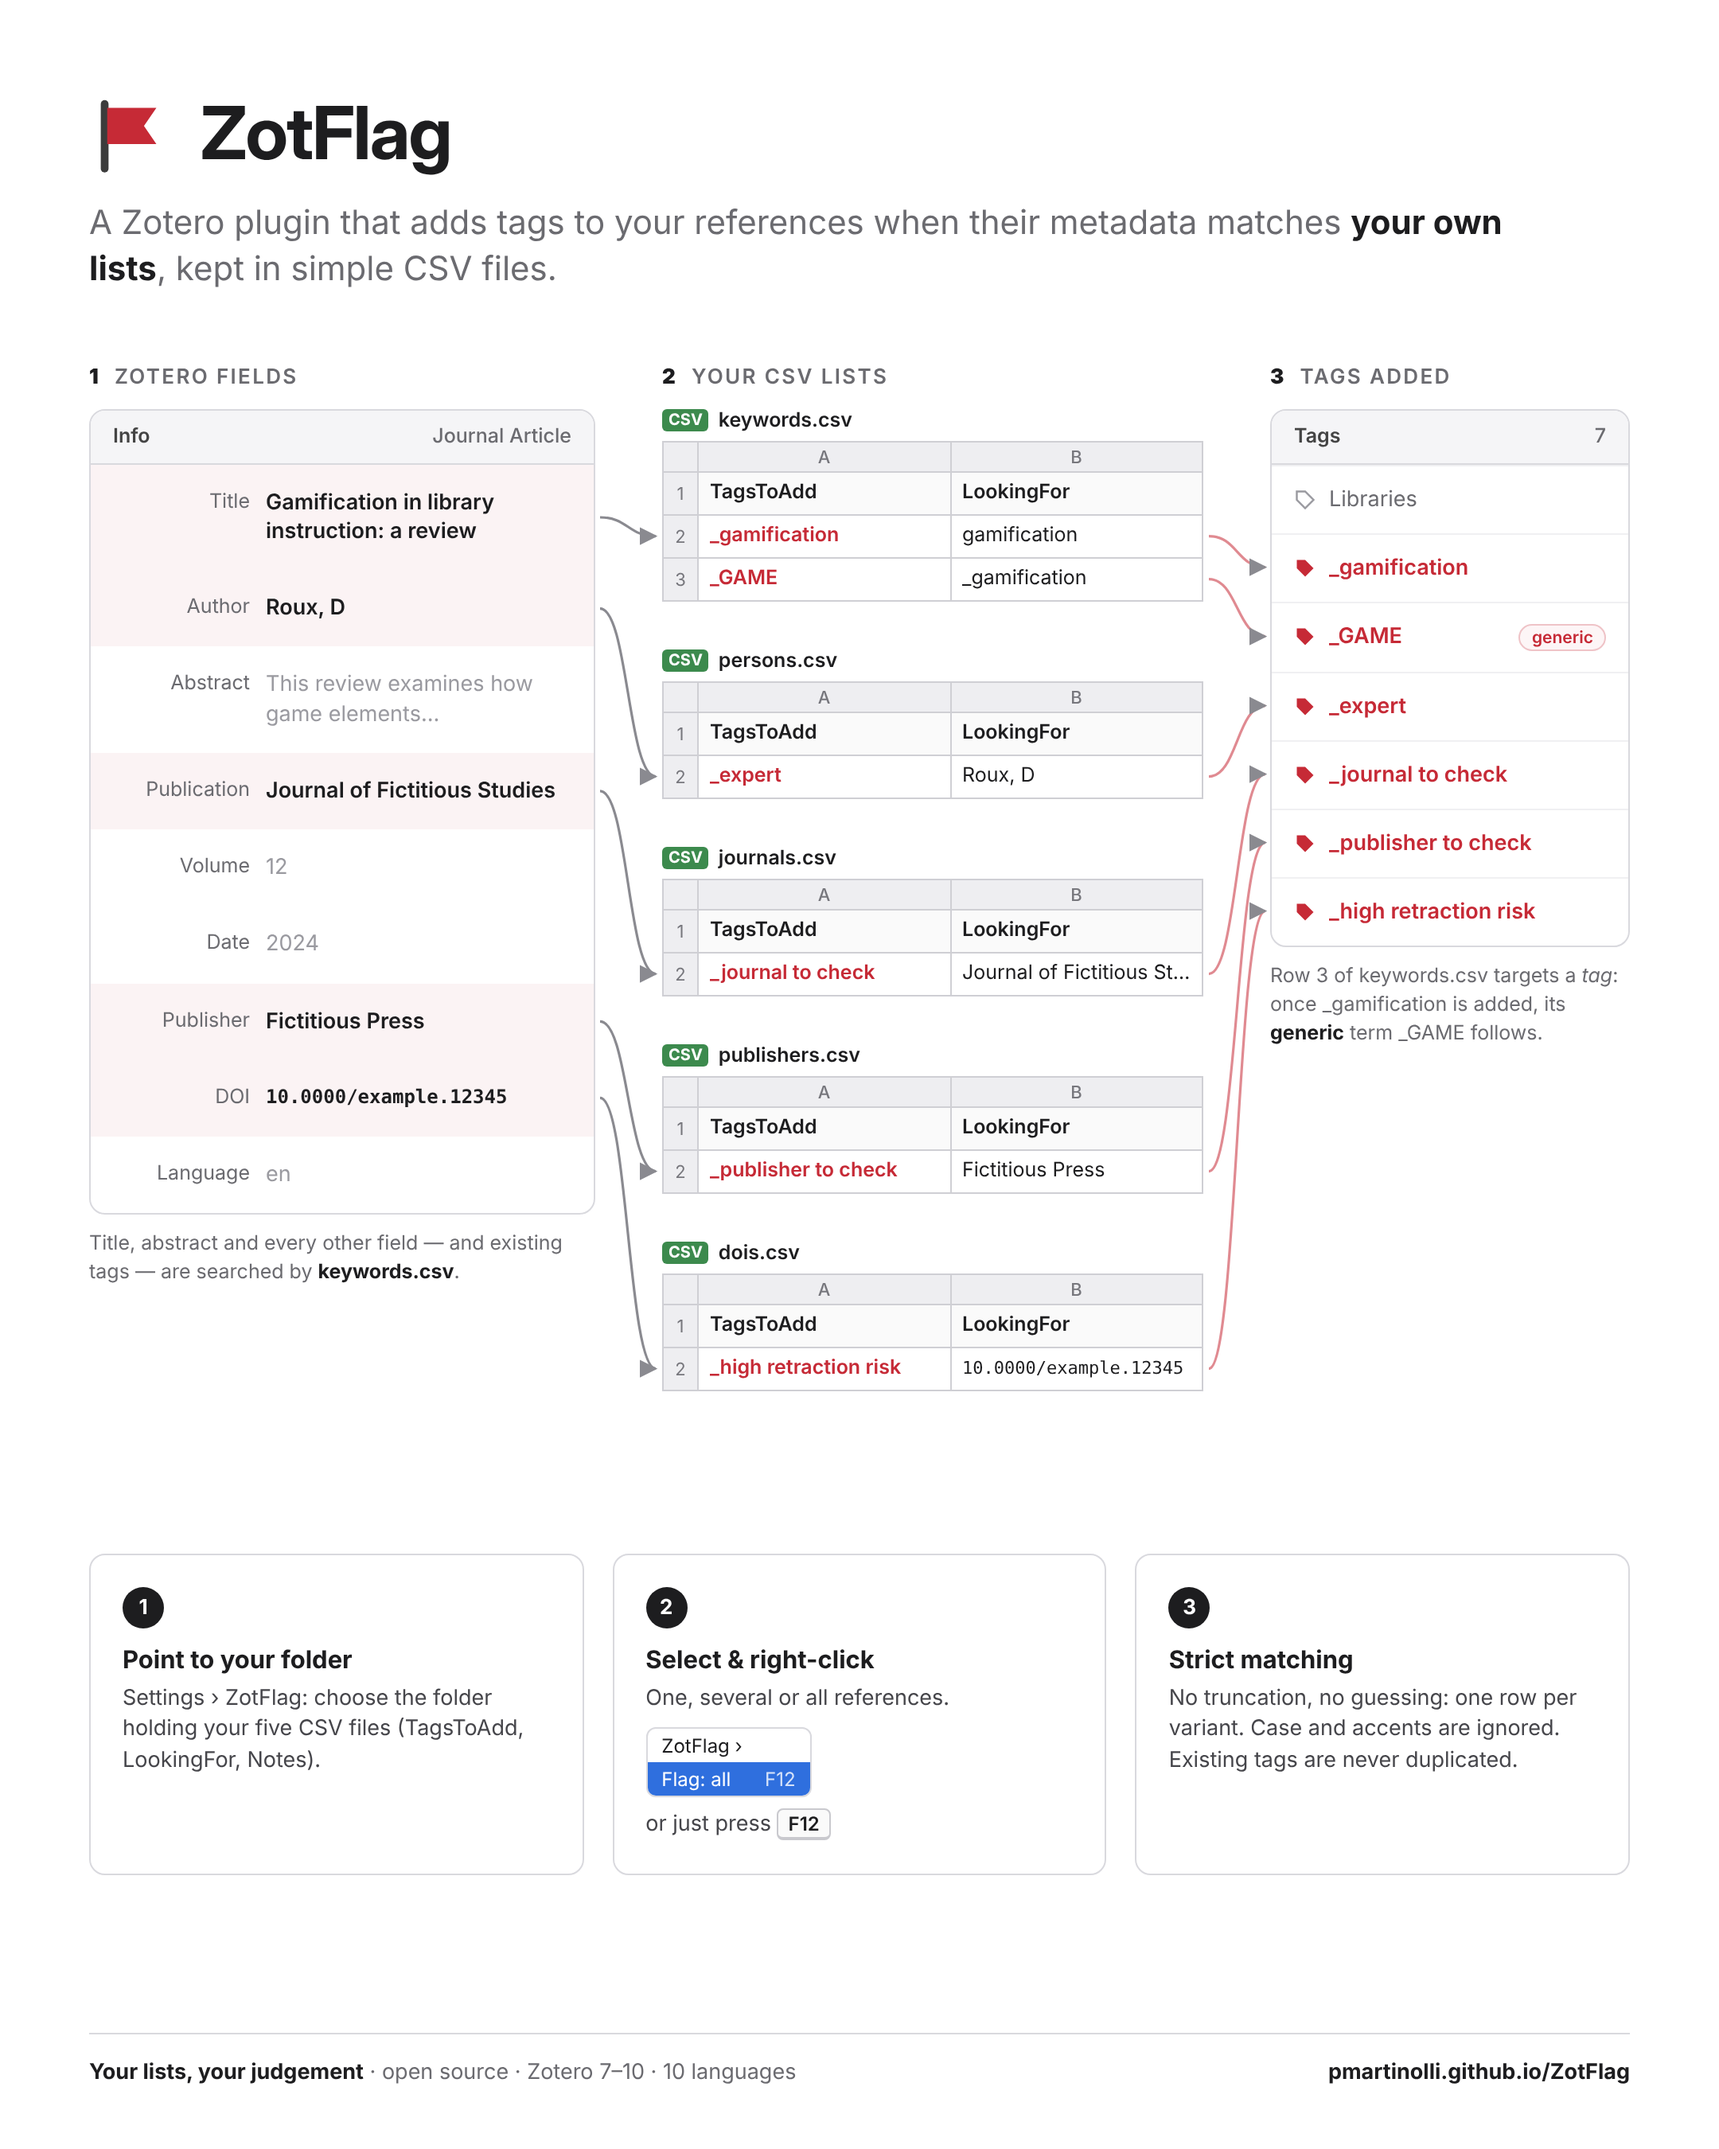
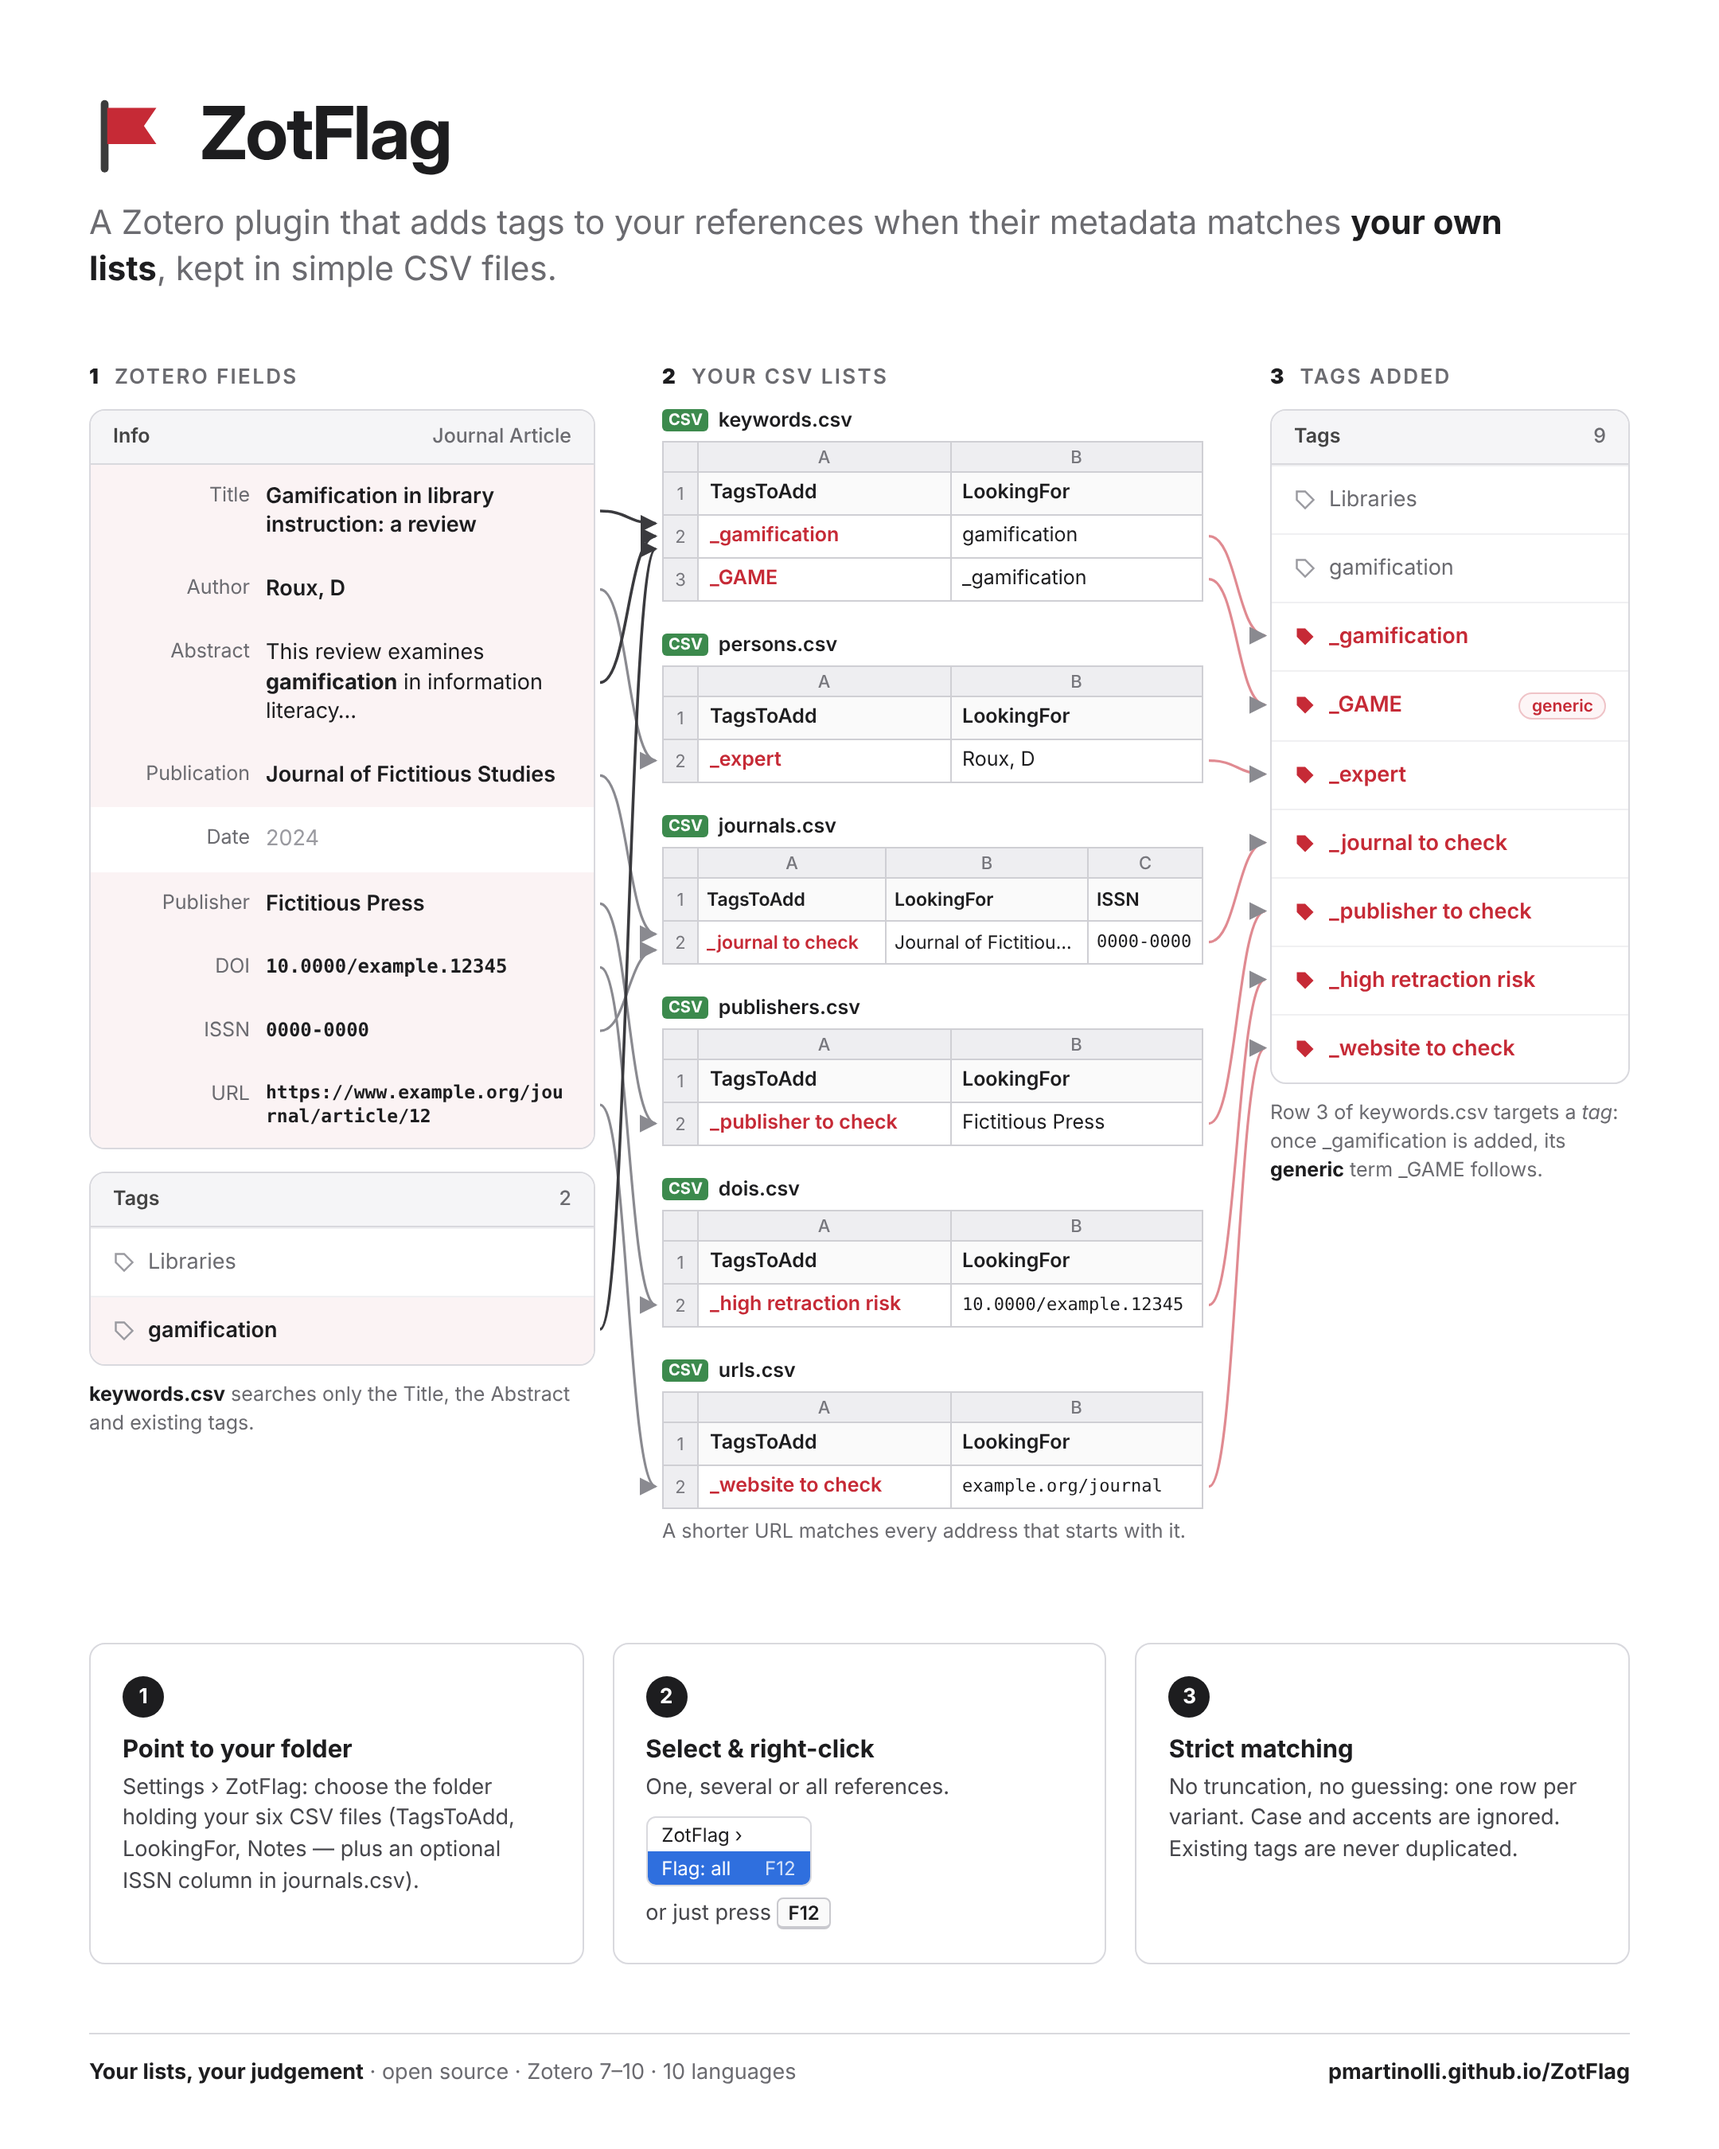
20261113

diff --git a/docs/index.html b/docs/index.html
@@ -121,7 +121,7 @@ ul.task-list li input[type="checkbox"] {
 <div>
   <div class="abstract">
     <div class="block-title">Abstract</div>
-    A Zotero plugin to index tags automatically based on authors, publishers, DOI, journals and keywords (title, abstract, tags) found in csv concordance tables you own and you curate. Can be used to flag great or poor science based on your criteria, or to add a generic layer of subjects on the top of your existing controlled vocabulary. Make it so*.
+    A Zotero plugin automatically adding tags based on Zotero fields and values in CSV concordance tables you own and you curate. Can be used to flag great or poor science based on your criteria, or to add a generic layer of subjects on the top of your existing controlled vocabulary. Make it so.
   </div>
 </div>
 
@@ -135,14 +135,59 @@ ul.task-list li input[type="checkbox"] {
 <figcaption>ZotFlag infographic</figcaption>
 </figure>
 </div>
-<p>Zotero Extension (7 to 10) that automatically adds tags to selected references when their metadata matches lists kept in CSV files.</p>
+<p>It is a Zotero extension (for Zotero 7 to 10) that automatically adds tags to selected references when their metadata matches lists kept in CSV files.</p>
 <ul>
 <li><a href="https://github.com/pmartinolli/ZotFlag">GitHub Repository</a></li>
 <li><a href="https://pmartinolli.github.io/blog/2026/ZotFlag/">Discussion, application and empirical analysis</a> (in French).</li>
-<li><a href="https://pmartinolli.github.io/ZotFlag_cahierdescharges/">Specifications</a> (in French, 2025).</li>
 </ul>
+<table class="caption-top table">
+<colgroup>
+<col style="width: 26%">
+<col style="width: 34%">
+</colgroup>
+<thead>
+<tr class="header">
+<th>CSV filenames</th>
+<th>Matching Zotero fields</th>
+</tr>
+</thead>
+<tbody>
+<tr class="odd">
+<td><code>keywords.csv</code></td>
+<td><p>Tags (strict)</p>
+<p>Title</p>
+<p>Abstract</p></td>
+</tr>
+<tr class="even">
+<td><code>journals.csv</code></td>
+<td>Publication</td>
+</tr>
+<tr class="odd">
+<td><code>journals.csv</code></td>
+<td>ISSN</td>
+</tr>
+<tr class="even">
+<td><code>persons.csv</code></td>
+<td><p>author</p>
+<p>editor</p></td>
+</tr>
+<tr class="odd">
+<td><code>publishers.csv</code></td>
+<td>Publisher</td>
+</tr>
+<tr class="even">
+<td><code>dois.csv</code></td>
+<td>DOI</td>
+</tr>
+<tr class="odd">
+<td><code>urls.csv</code></td>
+<td>URL</td>
+</tr>
+</tbody>
+</table>
 <p>GPL-3.0-or-later. Author: Pascal Martinolli (specifications); code generated with Claude.</p>
-<p>* : « Make it so. » was a catchphrase written by Gene Roddenberry, <a href="https://en.wiktionary.org/wiki/make_it_so">inspired</a> by the British naval officers of the XIXe century. It was first used in “Encounter At Farpoint” (28 September 1987) and then reused with much delight by Captain Jean-Luc Picard (<em>In memoriam</em>) during the run of <a href="https://www.startrek.com/en-ca/videos/make-it-so-captain-picard">ST:TNG</a> 1987-1994.</p>
+<hr>
+<p>« Make it so. » was a catchphrase written by Gene Roddenberry, <a href="https://en.wiktionary.org/wiki/make_it_so">inspired</a> by the British naval officers of the XIXe century. It was first used in “Encounter At Farpoint” (28 September 1987) and then reused with much delight by Captain Jean-Luc Picard (<em>In memoriam</em>) during the run of <a href="https://www.startrek.com/en-ca/videos/make-it-so-captain-picard">ST:TNG</a> 1987-1994.</p>
 
 
 
